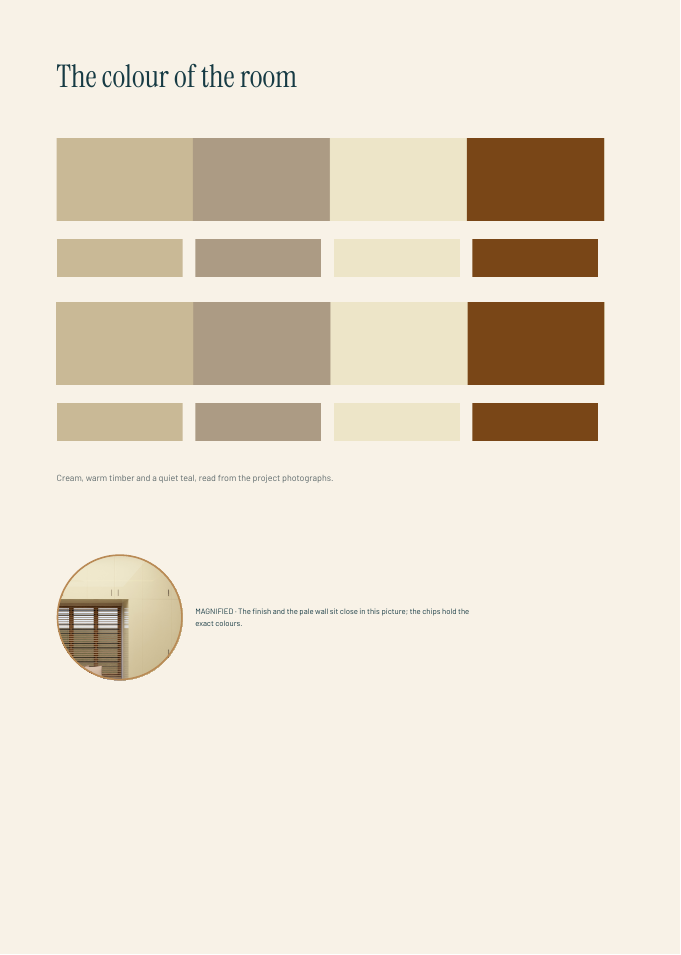
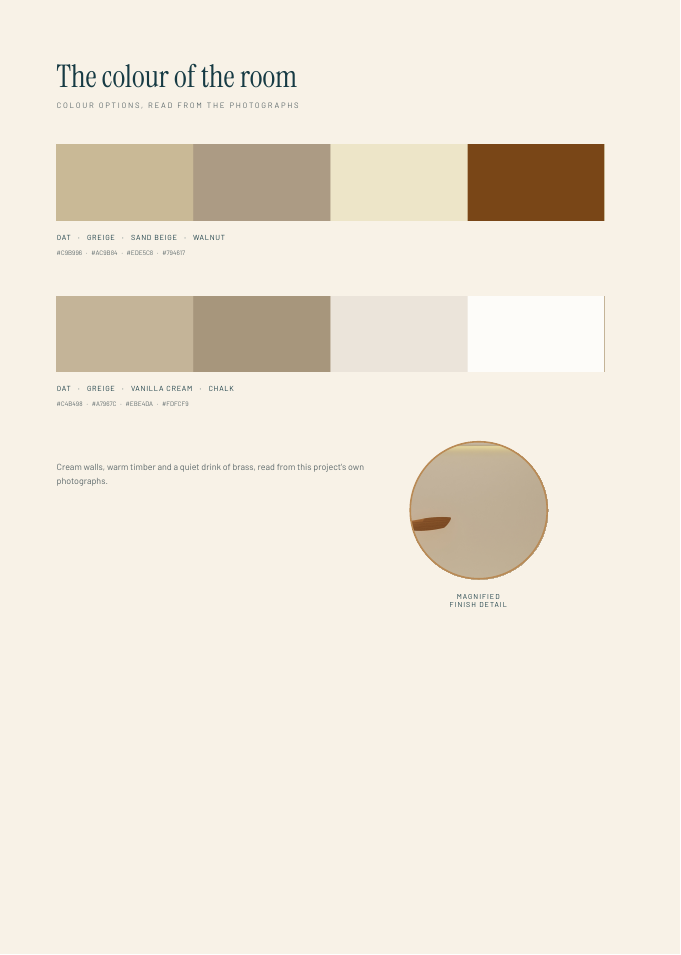
Showroom brochure: named paint-card colours, feature callouts

diff --git a/scripts/fixtures/designer-reply.html b/scripts/fixtures/designer-reply.html
@@ -18,19 +18,16 @@
 </div>
 <div class="page">
 <div style="position:absolute;left:18mm;top:18mm;width:174mm;font-family:var(--display);font-size:28pt;color:var(--deep);">The colour of the room</div>
-<div style="position:absolute;left:18mm;top:44mm;width:174mm;height:26mm;background-image:url({{photo1Palette}});background-size:cover;"></div>
-<div style="position:absolute;left:18mm;top:76mm;width:40mm;height:12mm;background:{{photo1Color1}};"></div>
-<div style="position:absolute;left:62mm;top:76mm;width:40mm;height:12mm;background:{{photo1Color2}};"></div>
-<div style="position:absolute;left:106mm;top:76mm;width:40mm;height:12mm;background:{{photo1Color3}};"></div>
-<div style="position:absolute;left:150mm;top:76mm;width:40mm;height:12mm;background:{{photo1Color4}};"></div>
-<div style="position:absolute;left:18mm;top:96mm;width:174mm;height:26mm;background-image:url({{photo2Palette}});background-size:cover;"></div>
-<div style="position:absolute;left:18mm;top:128mm;width:40mm;height:12mm;background:{{photo2Color1}};"></div>
-<div style="position:absolute;left:62mm;top:128mm;width:40mm;height:12mm;background:{{photo2Color2}};"></div>
-<div style="position:absolute;left:106mm;top:128mm;width:40mm;height:12mm;background:{{photo2Color3}};"></div>
-<div style="position:absolute;left:150mm;top:128mm;width:40mm;height:12mm;background:{{photo2Color4}};"></div>
-<div style="position:absolute;left:18mm;top:150mm;width:174mm;font-family:var(--body);font-size:8pt;color:var(--muted);">Cream, warm timber and a quiet teal, read from the project photographs.</div>
-<div style="position:absolute;left:18mm;top:176mm;width:40mm;height:40mm;border-radius:50%;border:0.5mm solid #B98A55;background-image:url({{photo2}});background-size:360%;background-position:60% 40%;"></div>
-<div style="position:absolute;left:62mm;top:192mm;width:90mm;font-family:var(--body);font-size:7pt;line-height:1.6;color:var(--deep);">MAGNIFIED · The finish and the pale wall sit close in this picture; the chips hold the exact colours.</div>
+<div style="position:absolute;left:18mm;top:32mm;width:174mm;font-family:var(--body);font-size:7pt;letter-spacing:0.22em;text-transform:uppercase;color:var(--muted);">Colour options, read from the photographs</div>
+<div style="position:absolute;left:18mm;top:46mm;width:174mm;height:24mm;background-image:url({{photo1Palette}});background-size:cover;"></div>
+<div style="position:absolute;left:18mm;top:74mm;width:174mm;font-family:var(--body);font-size:6.6pt;letter-spacing:0.1em;text-transform:uppercase;color:var(--deep);">{{photo1Color1Name}} &nbsp; · &nbsp; {{photo1Color2Name}} &nbsp; · &nbsp; {{photo1Color3Name}} &nbsp; · &nbsp; {{photo1Color4Name}}</div>
+<div style="position:absolute;left:18mm;top:79mm;width:174mm;font-family:var(--body);font-size:5.8pt;color:var(--muted);">{{photo1Color1}} &nbsp; · &nbsp; {{photo1Color2}} &nbsp; · &nbsp; {{photo1Color3}} &nbsp; · &nbsp; {{photo1Color4}}</div>
+<div style="position:absolute;left:18mm;top:94mm;width:174mm;height:24mm;background-image:url({{photo2Palette}});background-size:cover;"></div>
+<div style="position:absolute;left:18mm;top:122mm;width:174mm;font-family:var(--body);font-size:6.6pt;letter-spacing:0.1em;text-transform:uppercase;color:var(--deep);">{{photo2Color1Name}} &nbsp; · &nbsp; {{photo2Color2Name}} &nbsp; · &nbsp; {{photo2Color3Name}} &nbsp; · &nbsp; {{photo2Color4Name}}</div>
+<div style="position:absolute;left:18mm;top:127mm;width:174mm;font-family:var(--body);font-size:5.8pt;color:var(--muted);">{{photo2Color1}} &nbsp; · &nbsp; {{photo2Color2}} &nbsp; · &nbsp; {{photo2Color3}} &nbsp; · &nbsp; {{photo2Color4}}</div>
+<div style="position:absolute;left:18mm;top:146mm;width:110mm;font-family:var(--body);font-size:8pt;line-height:1.6;color:var(--muted);">Cream walls, warm timber and a quiet drink of brass, read from this project's own photographs.</div>
+<div style="position:absolute;left:130mm;top:140mm;width:44mm;height:44mm;border-radius:50%;border:0.5mm solid #B98A55;background-image:url({{photo2}});background-size:360%;background-position:60% 40%;"></div>
+<div style="position:absolute;left:130mm;top:188mm;width:44mm;font-family:var(--body);font-size:6.4pt;letter-spacing:0.14em;text-transform:uppercase;color:var(--deep);text-align:center;">MAGNIFIED<br>Finish detail</div>
 </div>
 <div class="page">
 <div style="position:absolute;left:18mm;top:16mm;width:174mm;font-family:var(--body);font-size:8pt;letter-spacing:0.2em;text-transform:uppercase;color:var(--deep);">Closing · {{orderNo}}</div>

diff --git a/scripts/fixtures/designer-reply-long.html b/scripts/fixtures/designer-reply-long.html
@@ -18,19 +18,16 @@
 </div>
 <div class="page">
 <div style="position:absolute;left:18mm;top:18mm;width:174mm;font-family:var(--display);font-size:28pt;color:var(--deep);">The colour of the room</div>
-<div style="position:absolute;left:18mm;top:44mm;width:174mm;height:26mm;background-image:url({{photo1Palette}});background-size:cover;"></div>
-<div style="position:absolute;left:18mm;top:76mm;width:40mm;height:12mm;background:{{photo1Color1}};"></div>
-<div style="position:absolute;left:62mm;top:76mm;width:40mm;height:12mm;background:{{photo1Color2}};"></div>
-<div style="position:absolute;left:106mm;top:76mm;width:40mm;height:12mm;background:{{photo1Color3}};"></div>
-<div style="position:absolute;left:150mm;top:76mm;width:40mm;height:12mm;background:{{photo1Color4}};"></div>
-<div style="position:absolute;left:18mm;top:96mm;width:174mm;height:26mm;background-image:url({{photo2Palette}});background-size:cover;"></div>
-<div style="position:absolute;left:18mm;top:128mm;width:40mm;height:12mm;background:{{photo2Color1}};"></div>
-<div style="position:absolute;left:62mm;top:128mm;width:40mm;height:12mm;background:{{photo2Color2}};"></div>
-<div style="position:absolute;left:106mm;top:128mm;width:40mm;height:12mm;background:{{photo2Color3}};"></div>
-<div style="position:absolute;left:150mm;top:128mm;width:40mm;height:12mm;background:{{photo2Color4}};"></div>
-<div style="position:absolute;left:18mm;top:150mm;width:174mm;font-family:var(--body);font-size:8pt;color:var(--muted);">Cream, warm timber and a quiet teal, read from the project photographs.</div>
-<div style="position:absolute;left:18mm;top:176mm;width:40mm;height:40mm;border-radius:50%;border:0.5mm solid #B98A55;background-image:url({{photo2}});background-size:360%;background-position:60% 40%;"></div>
-<div style="position:absolute;left:62mm;top:192mm;width:90mm;font-family:var(--body);font-size:7pt;line-height:1.6;color:var(--deep);">MAGNIFIED · The finish and the pale wall sit close in this picture; the chips hold the exact colours.</div>
+<div style="position:absolute;left:18mm;top:32mm;width:174mm;font-family:var(--body);font-size:7pt;letter-spacing:0.22em;text-transform:uppercase;color:var(--muted);">Colour options, read from the photographs</div>
+<div style="position:absolute;left:18mm;top:46mm;width:174mm;height:24mm;background-image:url({{photo1Palette}});background-size:cover;"></div>
+<div style="position:absolute;left:18mm;top:74mm;width:174mm;font-family:var(--body);font-size:6.6pt;letter-spacing:0.1em;text-transform:uppercase;color:var(--deep);">{{photo1Color1Name}} &nbsp; · &nbsp; {{photo1Color2Name}} &nbsp; · &nbsp; {{photo1Color3Name}} &nbsp; · &nbsp; {{photo1Color4Name}}</div>
+<div style="position:absolute;left:18mm;top:79mm;width:174mm;font-family:var(--body);font-size:5.8pt;color:var(--muted);">{{photo1Color1}} &nbsp; · &nbsp; {{photo1Color2}} &nbsp; · &nbsp; {{photo1Color3}} &nbsp; · &nbsp; {{photo1Color4}}</div>
+<div style="position:absolute;left:18mm;top:94mm;width:174mm;height:24mm;background-image:url({{photo2Palette}});background-size:cover;"></div>
+<div style="position:absolute;left:18mm;top:122mm;width:174mm;font-family:var(--body);font-size:6.6pt;letter-spacing:0.1em;text-transform:uppercase;color:var(--deep);">{{photo2Color1Name}} &nbsp; · &nbsp; {{photo2Color2Name}} &nbsp; · &nbsp; {{photo2Color3Name}} &nbsp; · &nbsp; {{photo2Color4Name}}</div>
+<div style="position:absolute;left:18mm;top:127mm;width:174mm;font-family:var(--body);font-size:5.8pt;color:var(--muted);">{{photo2Color1}} &nbsp; · &nbsp; {{photo2Color2}} &nbsp; · &nbsp; {{photo2Color3}} &nbsp; · &nbsp; {{photo2Color4}}</div>
+<div style="position:absolute;left:18mm;top:146mm;width:110mm;font-family:var(--body);font-size:8pt;line-height:1.6;color:var(--muted);">Cream walls, warm timber and a quiet drink of brass, read from this project's own photographs.</div>
+<div style="position:absolute;left:130mm;top:140mm;width:44mm;height:44mm;border-radius:50%;border:0.5mm solid #B98A55;background-image:url({{photo2}});background-size:360%;background-position:60% 40%;"></div>
+<div style="position:absolute;left:130mm;top:188mm;width:44mm;font-family:var(--body);font-size:6.4pt;letter-spacing:0.14em;text-transform:uppercase;color:var(--deep);text-align:center;">MAGNIFIED<br>Finish detail</div>
 </div>
 <div class="page">
 <div style="position:absolute;left:-3mm;top:-3mm;width:216mm;height:140mm;background-image:url({{photo1}});background-size:cover;background-position:center;"></div>

diff --git a/app/app/orders/[id].tsx b/app/app/orders/[id].tsx
@@ -360,14 +360,18 @@ export default function OrderDetailScreen() {
                       </Text>
                       <View style={styles.swatchRow}>
                         {palette.colors.map((colour, index) => (
-                          <View
-                            key={`${palette.photo}-${index}`}
-                            accessibilityLabel={`Colour ${colour}`}
-                            style={[styles.swatch, { backgroundColor: colour }]}
-                          />
+                          <View key={`${palette.photo}-${index}`} style={styles.swatchCard}>
+                            <View
+                              accessibilityLabel={`Colour ${colour}`}
+                              style={[styles.swatch, { backgroundColor: colour }]}
+                            />
+                            <Text style={[text.caption, styles.swatchName]} numberOfLines={1}>
+                              {palette.names[index] ?? ''}
+                            </Text>
+                            <Text style={[text.caption, styles.swatchHex]}>{colour}</Text>
+                          </View>
                         ))}
                       </View>
-                      <Text style={[text.caption, styles.paletteHex]}>{palette.colors.join('  ')}</Text>
                     </View>
                   ))}
                 </View>
@@ -675,7 +679,8 @@ const styles = StyleSheet.create({
   },
   swatchRow: {
     flexDirection: 'row',
-    gap: 8,
+    flexWrap: 'wrap',
+    gap: 12,
   },
   swatch: {
     width: 44,
@@ -684,8 +689,19 @@ const styles = StyleSheet.create({
     borderWidth: StyleSheet.hairlineWidth,
     borderColor: colors.hairInset,
   },
-  paletteHex: {
-    letterSpacing: 0.4,
+  swatchCard: {
+    width: 72,
+    gap: 4,
+  },
+  swatchName: {
+    fontSize: 11,
+    textTransform: 'uppercase',
+    letterSpacing: 0.8,
+    color: colors.ink,
+  },
+  swatchHex: {
+    fontSize: 10,
+    color: colors.faint,
   },
   noteBox: {
     marginTop: space.md,

diff --git a/app/lib/api.ts b/app/lib/api.ts
@@ -165,6 +165,8 @@ export interface OrderPalette {
   photo: string;
   /** Four hex colours read from that photograph. */
   colors: string[];
+  /** Their showroom names, the way a paint card names a colour. */
+  names: string[];
 }
 
 export interface OrderAttachment {

diff --git a/README.md b/README.md
@@ -14,7 +14,7 @@ The only external service is the language model chosen in Settings. Everything e
 
 1. A salesperson pastes the customer requirement into the chat and attaches the project photographs.
 2. The intake assistant pulls out the order and asks only for what is missing.
-3. The model designs and typesets the brochure from the pictures: the colours are read out of the photographs, every picture is used, and the studio can ask for a detail to be magnified.
+3. The model designs and typesets a showroom brochure from the pictures: the kind a car or bike showroom hands over. Big hero photography, one idea per spread, named colour options like a paint card, feature callouts with magnified details, almost no text.
 4. The PDF is previewed page by page and can be printed, opened or shared.
 
 There is no template library and no pre-made layout. The model authors every page for that project.
@@ -24,7 +24,7 @@ There is no template library and no pre-made layout. The model authors every pag
 The photographs are the source, not decoration. The brochure is a colour study, not a specification sheet: there are no dimensions, sizes or shapes anywhere in the product.
 
 - **Every uploaded picture is printed.** A document that leaves a picture out is rejected and asked for again.
-- **The palette comes from the pictures.** The engine decodes each photograph and gives the model its four dominant colours. The brochure prints those colour strips and chips, so the pages mirror the project's cream walls, warm timber and quiet accents instead of an invented palette.
+- **The palette comes from the pictures and gets showroom names.** The engine decodes each photograph, then names its four dominant colours the way a paint card does: Warm Ivory, Oat, Sand Beige, Walnut. The brochure prints colour option strips, four named swatch chips with their hex values, so the pages mirror the project instead of an invented palette.
 - **The pages look like the project.** Type, photographs and colour are composed to belong with the pictures supplied.
 - **Magnifier callouts.** Name a detail in the chat, such as a handle, an edge, a grain or the colour palette, and the model prints a circular loupe: the same photograph enlarged on that detail, a thin ring, a leader line and a small label. When pictures arrive without a named detail, the intake assistant asks which detail to magnify.
 
